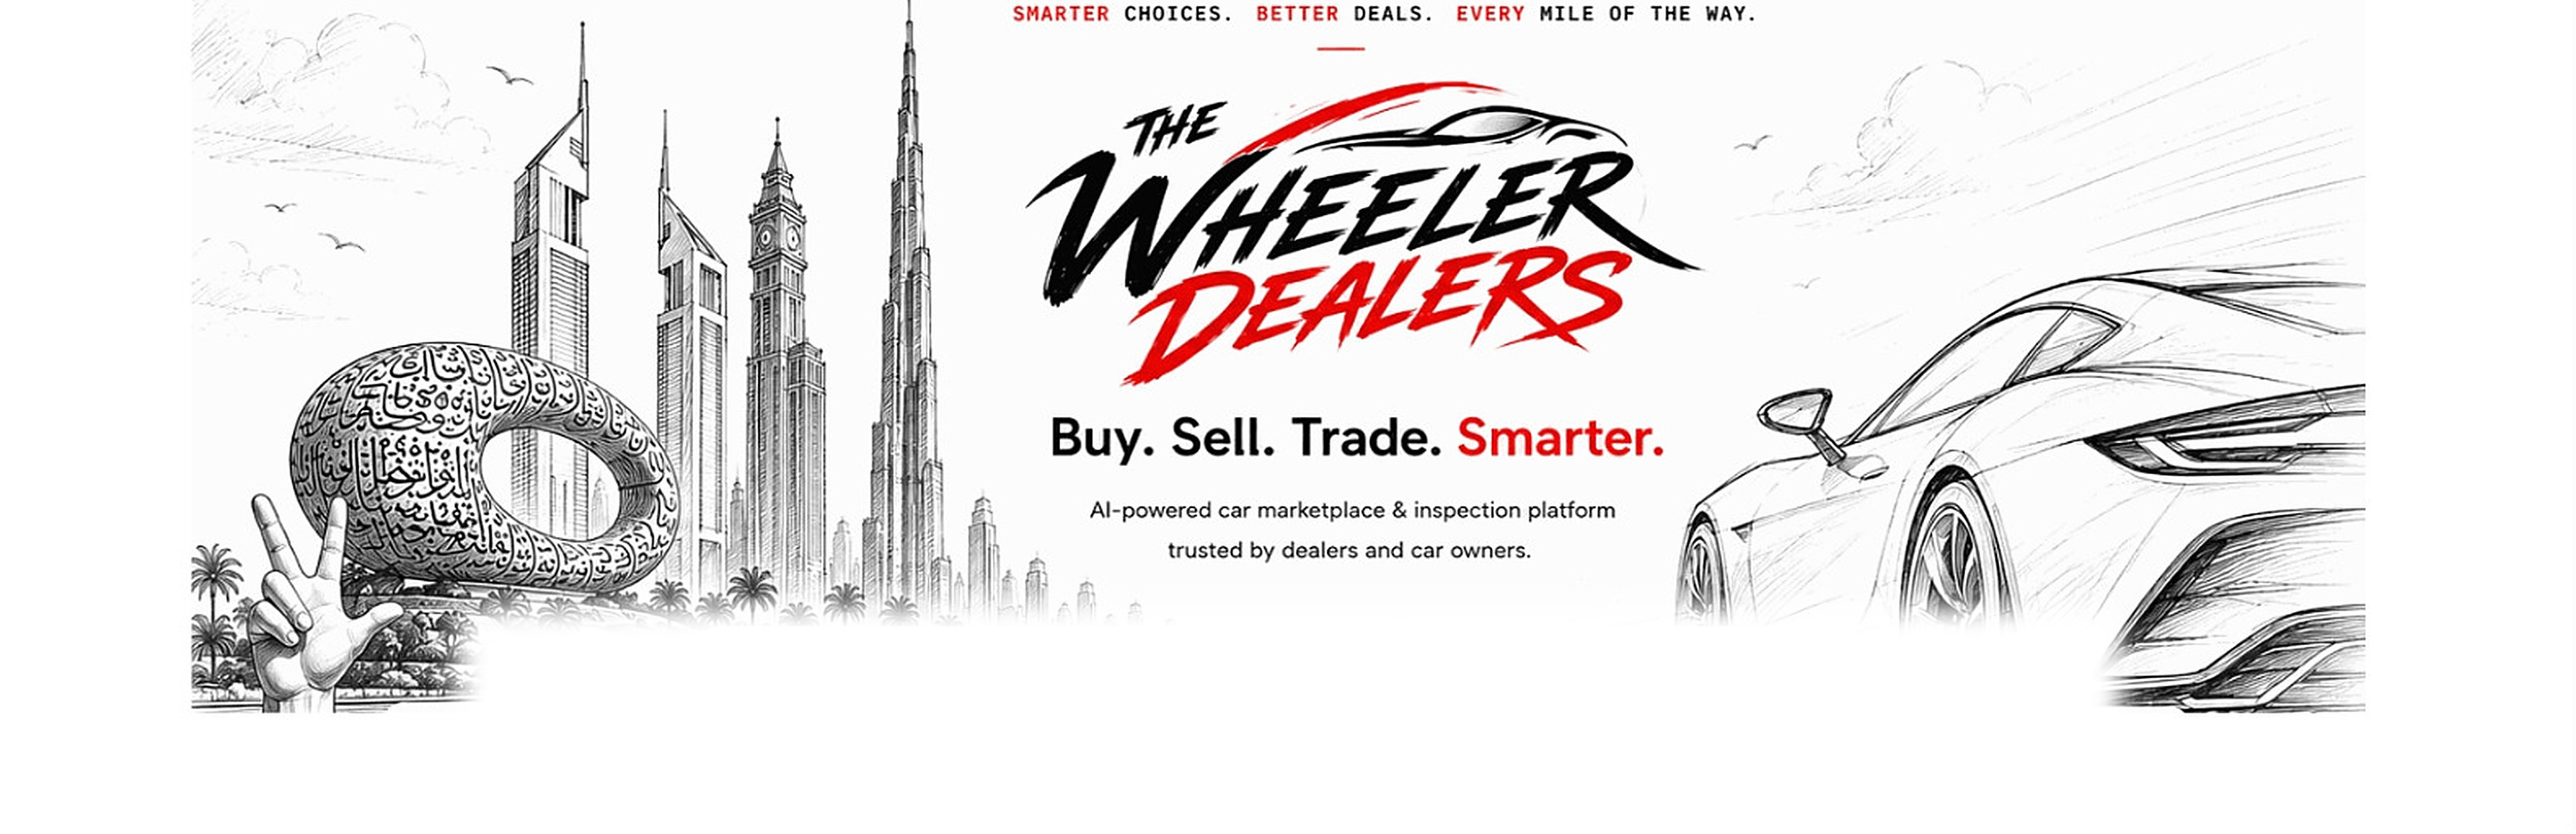
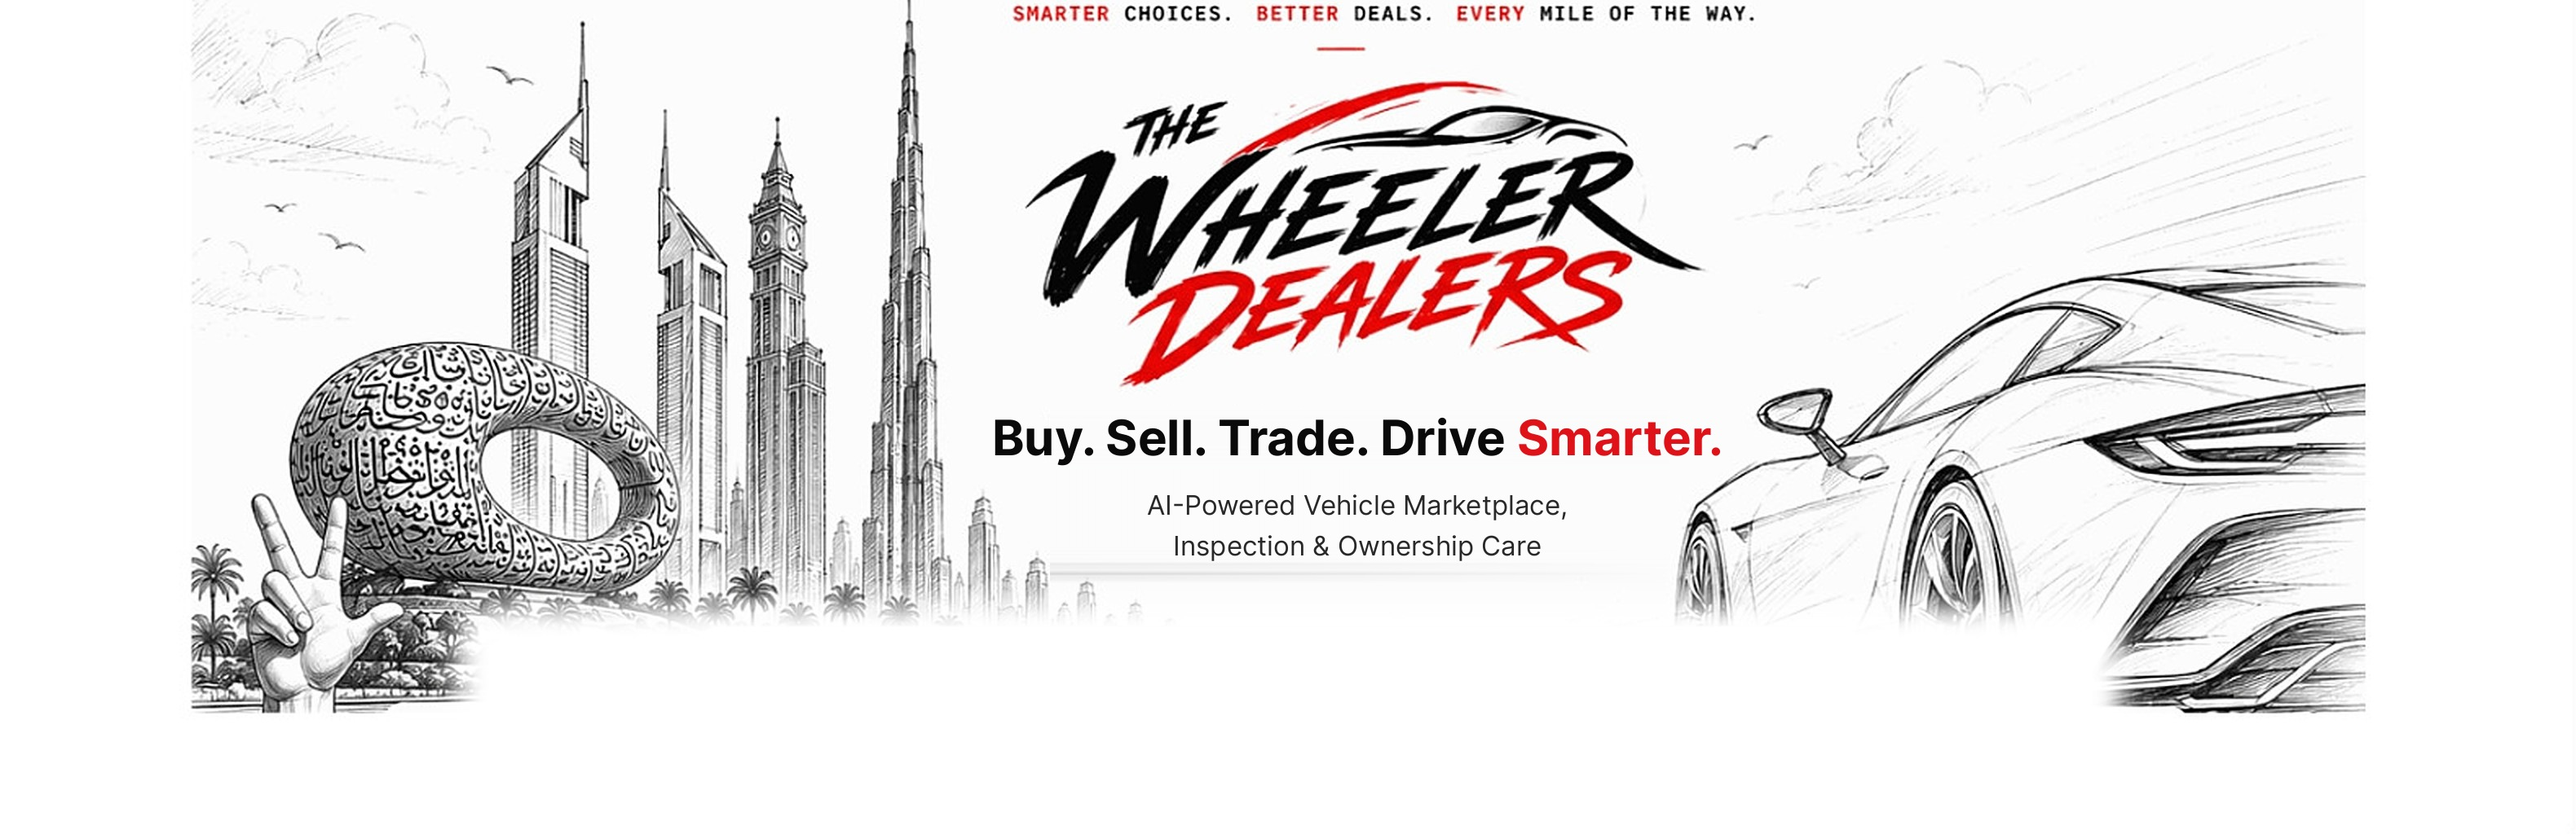
Homepage: "Drive Smarter" tagline, new subtitle, and "Operated By" footer line
- Hero artwork: "Buy. Sell. Trade. Drive Smarter." with the subtitle
  "AI-Powered Vehicle Marketplace, Inspection & Ownership Care"
- Footer on the homepage, inspection pages and blog: "Operated By Novasynergy Business Solutions Fzco"
- Bumped the hero image cache version

Changed region(s): [[0.3722, 0.5, 0.6823, 0.5625], [0.4032, 0.5938, 0.6203, 0.6875]]

diff --git a/src/components/LandingClient.tsx b/src/components/LandingClient.tsx
@@ -121,8 +121,8 @@ export default function LandingClient() {
         <section className="relative overflow-hidden border-b border-neutral-100 bg-white">
           {/* eslint-disable-next-line @next/next/no-img-element */}
           <img
-            src="/hero-bg.jpg?v=2"
-            alt="The Wheeler Dealers — Buy. Sell. Trade. Smarter. AI-powered car marketplace & inspection platform."
+            src="/hero-bg.jpg?v=3"
+            alt="The Wheeler Dealers — Buy. Sell. Trade. Drive Smarter. AI-Powered Vehicle Marketplace, Inspection & Ownership Care."
             className="w-full select-none"
             loading="eager"
             fetchPriority="high"
@@ -267,6 +267,7 @@ export default function LandingClient() {
           </nav>
           <p>© {new Date().getFullYear()} The Wheeler Dealers. All rights reserved.</p>
         </div>
+        <p className="pb-6 text-center text-xs text-neutral-400">Operated By Novasynergy Business Solutions Fzco</p>
       </footer>
 
       {auth && <AuthChooser mode={auth} onClose={() => setAuth(null)} onSwitch={(m) => setAuth(m)} />}

diff --git a/src/components/InspectionLocation.tsx b/src/components/InspectionLocation.tsx
@@ -160,6 +160,7 @@ export default function InspectionLocation({ emirate }: { emirate: Emirate }) {
       <footer className="border-t border-neutral-200 py-8">
         <div className="mx-auto max-w-6xl px-5 text-center text-xs text-neutral-500">
           © {new Date().getFullYear()} The Wheeler Dealers. All rights reserved.
+          <p className="mt-1 text-neutral-400">Operated By Novasynergy Business Solutions Fzco</p>
         </div>
       </footer>
     </div>

diff --git a/src/components/BlogChrome.tsx b/src/components/BlogChrome.tsx
@@ -38,6 +38,7 @@ export default function BlogChrome({ children }: { children: React.ReactNode }) 
       <footer className="border-t border-neutral-200 py-8">
         <div className="mx-auto max-w-4xl px-5 text-center text-xs text-neutral-500">
           © {new Date().getFullYear()} The Wheeler Dealers. All rights reserved.
+          <p className="mt-1 text-neutral-400">Operated By Novasynergy Business Solutions Fzco</p>
         </div>
       </footer>
     </div>

diff --git a/src/components/InspectionLanding.tsx b/src/components/InspectionLanding.tsx
@@ -307,6 +307,7 @@ export default function InspectionLanding() {
           </div>
           © {new Date().getFullYear()} The Wheeler Dealers. All rights reserved.
         </div>
+        <p className="pb-6 text-center text-xs text-neutral-400">Operated By Novasynergy Business Solutions Fzco</p>
       </footer>
     </div>
   );
